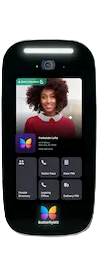
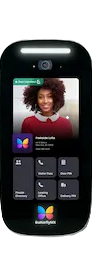
products

diff --git a/src/components/sections/Gallery.tsx b/src/components/sections/Gallery.tsx
@@ -15,7 +15,7 @@ type Card = {
 };
 
 const cards: Card[] = [
-  { brand: 'bmx', image: '/images/products/butterfly/video.png', badge: 'ButterflyMX', spec: '1080P HD',      brandLabel: 'ButterflyMX', model: 'Video Intercom Panel',    sub: 'Multi-tenant · Cloud managed' },
+  { brand: 'bmx', image: '/images/products/butterfly/videocom.webp', badge: 'ButterflyMX', spec: '1080P HD',      brandLabel: 'ButterflyMX', model: 'Video Intercom Panel',    sub: 'Multi-tenant · Cloud managed' },
   // { brand: 'bmx', image: '/images/products/product-02.jpg', badge: 'ButterflyMX', spec: 'iOS · ANDROID', brandLabel: 'ButterflyMX', model: 'Mobile Access App',       sub: 'iOS & Android · Open from anywhere' },
   { brand: 'akv', image: '/images/products/akuvox/R29.png', badge: 'Akuvox',      spec: 'AI · TOUCHLESS', brandLabel: 'Akuvox',      model: 'R29 Face Recognition',    sub: 'AI touchless entry · SIP compatible' },
   { brand: 'akv', image: '/images/products/akuvox/E16.png', badge: 'Akuvox',      spec: 'TOUCHSCREEN',    brandLabel: 'Akuvox',      model: 'E16C Multi-Tenant Station',sub: 'Touchscreen · RFID · PIN access' },
